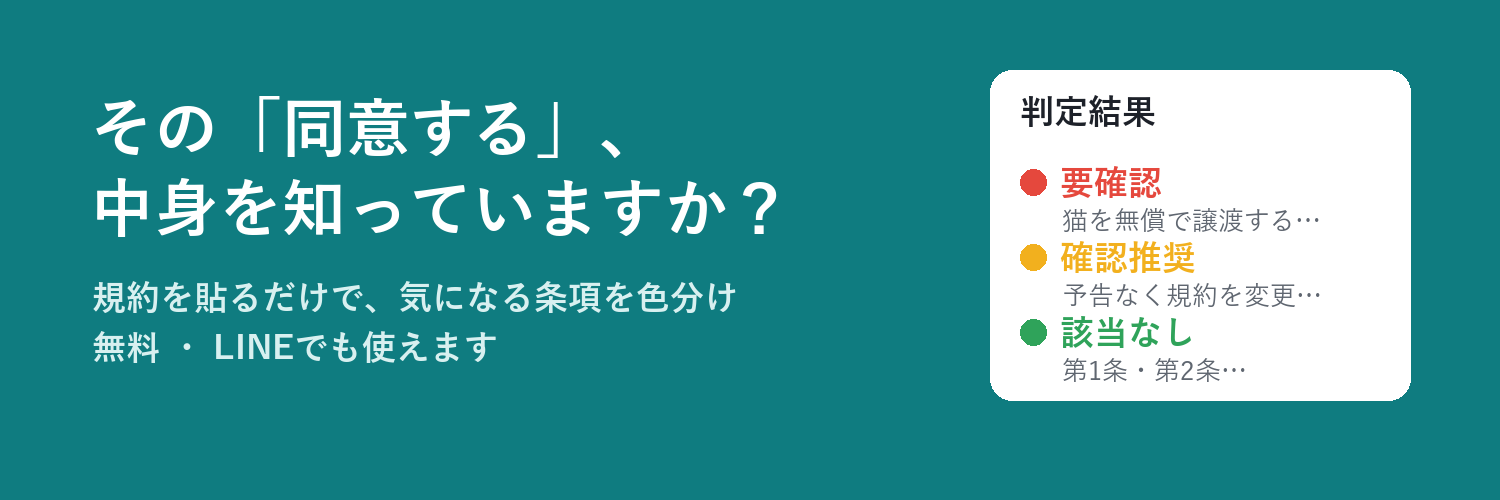
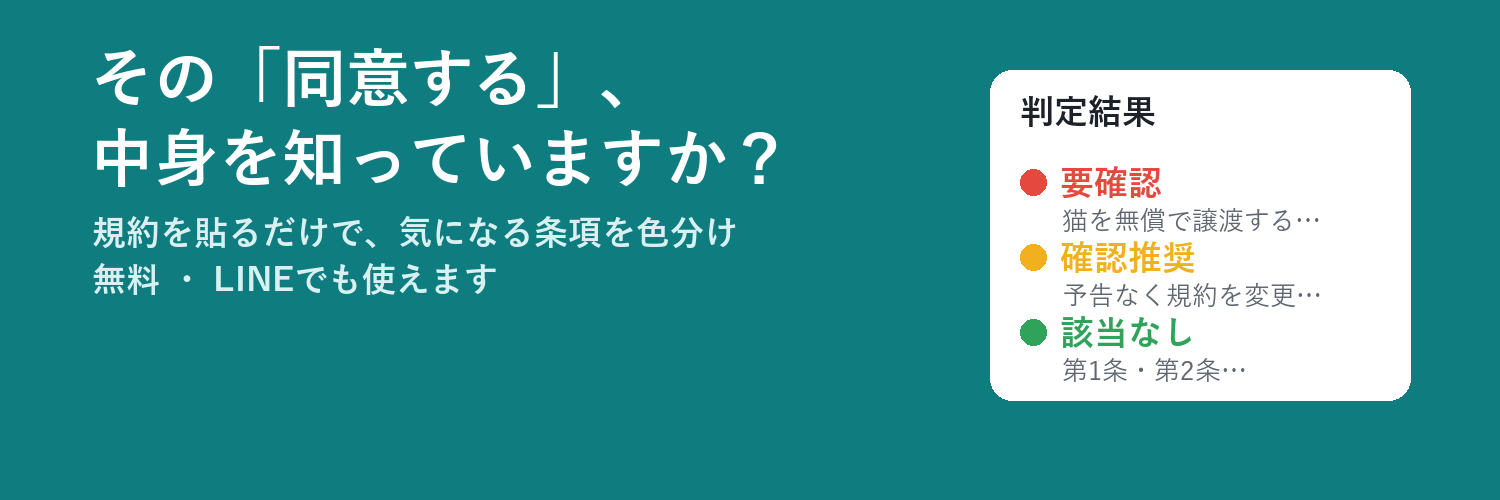
規約ページの見出しの下に大きな空白が出ていたのを修正

Changed region(s): [[0.0613, 0.09, 0.5213, 0.63], [0.0613, 0.66, 0.3373, 0.72], [0.3987, 0.18, 0.4293, 0.21]]

diff --git a/style.css b/style.css
@@ -69,7 +69,7 @@ main{padding-top:8px}
 .tab.off{color:var(--muted);opacity:.55}
 .label-row{display:flex;justify-content:space-between;font-size:.9rem;font-weight:700;margin-bottom:6px}
 #count{color:var(--muted);font-weight:400}
-#terms{min-height:176px;height:40vh}
+textarea#terms{min-height:176px;height:40vh}
 textarea.short{min-height:96px}
 .big{font-size:1.1rem;font-weight:700}
 .steps{list-style:none;padding:0;text-align:left;display:inline-block;margin:8px 0}
